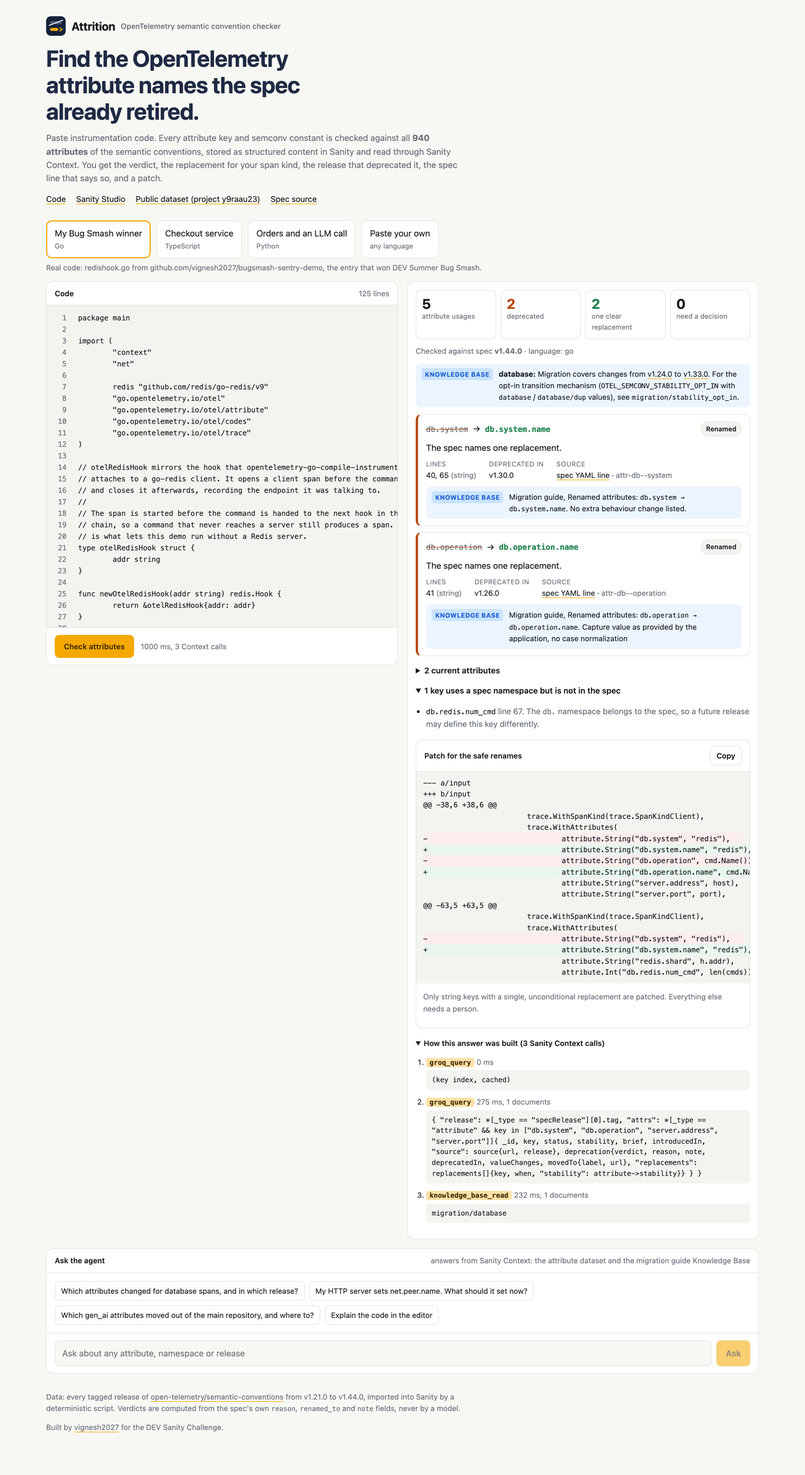
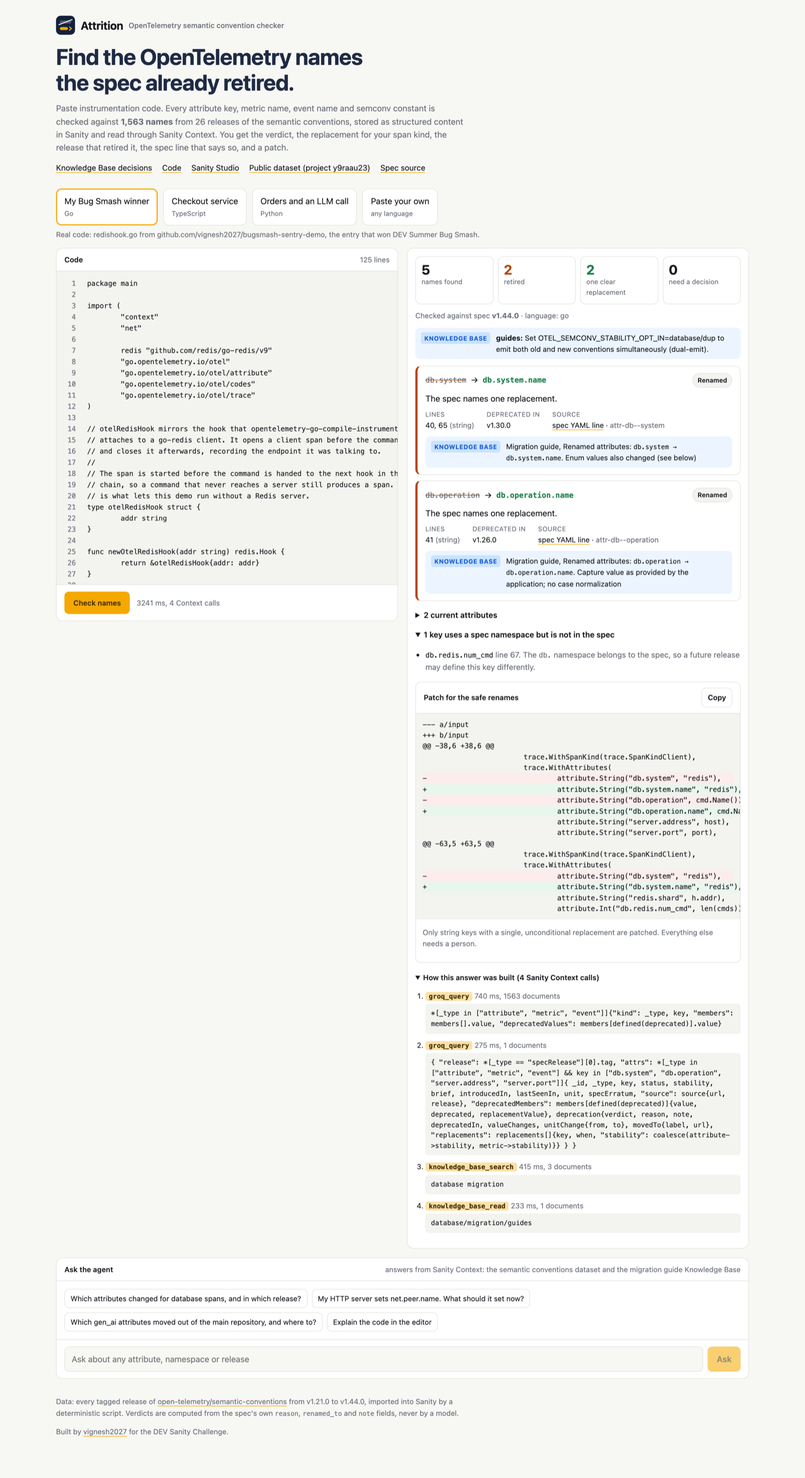
Refresh the README, project page, screenshots and demo GIF
Covers metrics, events, enum values and silently dropped names, the two
organization-level Context MCP endpoints, the Knowledge Base decisions
and the updated benchmark.

diff --git a/docs/index.html b/docs/index.html
@@ -3,10 +3,10 @@
 <head>
 <meta charset="utf-8">
 <meta name="viewport" content="width=device-width, initial-scale=1">
-<title>Attrition</title>
-<meta name="description" content="Find the OpenTelemetry attribute names the spec already retired. An agent on Sanity Context over all 940 semantic convention attributes.">
+<title>Attrition: find retired OpenTelemetry names</title>
+<meta name="description" content="Find the OpenTelemetry names the spec already retired. An agent on Sanity Context over 1,563 OpenTelemetry semantic convention names.">
 <meta property="og:title" content="Attrition">
-<meta property="og:description" content="Find the OpenTelemetry attribute names the spec already retired.">
+<meta property="og:description" content="Find the OpenTelemetry names the spec already retired.">
 <meta property="og:image" content="https://vignesh2027.github.io/attrition/og.png">
 <meta name="twitter:card" content="summary_large_image">
 <link rel="icon" href="mark.svg" type="image/svg+xml">
@@ -46,15 +46,16 @@ footer{margin-top:60px;color:var(--muted);font-size:14px}
 <body>
 <main class="wrap">
   <div class="brand"><img src="mark.svg" alt="" width="40" height="40" style="border-radius:9px">Attrition<span style="font-weight:500;text-transform:none;letter-spacing:0;color:var(--muted);font-size:14px;margin-left:6px">OpenTelemetry semantic convention checker</span></div>
-  <h1>Find the OpenTelemetry attribute names the spec already retired.</h1>
-  <p class="lede">Paste instrumentation code. Every attribute key and SDK constant is checked against all 940 attributes of the semantic conventions, stored as structured content in Sanity and read through Sanity Context. You get the verdict, the replacement for your span kind, the release that deprecated it, the spec line that says so, and a patch.</p>
+  <h1>Find the OpenTelemetry names the spec already retired.</h1>
+  <p class="lede">Paste instrumentation code. Every attribute key, metric name, event name, enum value and SDK constant is checked against 1,563 names from 26 releases of the semantic conventions, stored as structured content in Sanity and read through Sanity Context and a Knowledge Base. You get the verdict, the replacement for your span kind, the release that retired it, the spec line that says so, and a patch.</p>
   <div class="cta">
     <a class="btn primary" href="https://attrition-otel.vercel.app">Open the live app</a>
     <a class="btn" href="https://github.com/vignesh2027/attrition">Source on GitHub</a>
+    <a class="btn" href="https://attrition-otel.vercel.app/decisions">Knowledge Base decisions</a>
     <a class="btn" href="https://github.com/vignesh2027/attrition/blob/main/bench/RESULTS.md">Real repository results</a>
   </div>
 
-  <div class="shot"><img src="img/node-light.png" alt="Scan of a TypeScript checkout service: net.peer.name resolves to client.address on the server span and server.address on the client span" loading="lazy"></div>
+  <div class="shot"><img src="img/demo.gif" alt="Demo: scanning two samples, then the Knowledge Base decisions page"></div>
 
   <h2>What a keyword search gets wrong</h2>
   <div class="grid">
@@ -66,20 +67,20 @@ footer{margin-top:60px;color:var(--muted);font-size:14px}
 
   <h2>Built on Sanity Context</h2>
   <div class="grid">
-    <div class="card"><div class="num">1,031</div><p>documents in the public dataset <code>y9raau23/production</code>, imported from 26 spec releases by a deterministic script</p></div>
-    <div class="card"><div class="num">206</div><p>deprecated attributes, each with a verdict computed from the spec's own <code>reason</code>, <code>renamed_to</code> and <code>note</code></p></div>
-    <div class="card"><div class="num">107</div><p>sources in the Knowledge Base: a dataset slice, five official migration guides and two older spec pages</p></div>
-    <div class="card"><div class="num">3</div><p>Context tools used: <code>groq_query</code> for verdicts, <code>knowledge_base_read</code> for migration guidance, <code>schema_explorer</code> in chat</p></div>
+    <div class="card"><div class="num">1,654</div><p>documents in the public dataset <code>y9raau23/production</code>: 940 attributes, 571 metrics and 36 events from 26 spec releases</p></div>
+    <div class="card"><div class="num">50</div><p>names that left the spec with no deprecation entry, found by reading every older release. Only the migration guides record where they went.</p></div>
+    <div class="card"><div class="num">4</div><p>real conflicts between the registry and the guides, raised by the Knowledge Base build and resolved into standing instructions</p></div>
+    <div class="card"><div class="num">144</div><p>Knowledge Base sources, inside the 150 budget, read with <code>knowledge_base_search</code> and <code>knowledge_base_read</code></p></div>
   </div>
 
   <h2>Real repositories, pinned commits</h2>
   <div class="table">
   <table>
-    <thead><tr><th>Repository</th><th>Deprecated usages in code</th><th>Files to touch</th></tr></thead>
+    <thead><tr><th>Repository</th><th>Retired names in code</th><th>Files to touch</th></tr></thead>
     <tbody>
       <tr><td><a href="https://github.com/open-telemetry/opentelemetry-demo/tree/1fce20e">open-telemetry/opentelemetry-demo</a></td><td class="n">6</td><td class="n">4</td></tr>
       <tr><td><a href="https://github.com/jaegertracing/jaeger/tree/34a240c">jaegertracing/jaeger</a></td><td class="n">67</td><td class="n">13</td></tr>
-      <tr><td><a href="https://github.com/redis/go-redis/tree/d8ee0a5">redis/go-redis</a></td><td class="n">9</td><td class="n">4</td></tr>
+      <tr><td><a href="https://github.com/redis/go-redis/tree/d8ee0a5">redis/go-redis</a></td><td class="n">16</td><td class="n">4</td></tr>
       <tr><td><a href="https://github.com/go-gorm/opentelemetry/tree/8ccd419">go-gorm/opentelemetry</a></td><td class="n">0</td><td class="n">0</td></tr>
       <tr><td><a href="https://github.com/uptrace/opentelemetry-go-extra/tree/d0bd674">uptrace/opentelemetry-go-extra</a></td><td class="n">18</td><td class="n">7</td></tr>
     </tbody>
@@ -87,7 +88,8 @@ footer{margin-top:60px;color:var(--muted);font-size:14px}
   </div>
   <p style="color:var(--muted);font-size:14px">A finding means the key is deprecated in the spec. Fixtures that read old data, or libraries that dual-emit on purpose during a migration, may keep the old key for now. Every line is linked in the results file.</p>
 
-  <div class="shot"><img src="img/python-dark.png" alt="Scan of a Python service with Knowledge Base migration guidance on each finding" loading="lazy"></div>
+  <div class="shot"><img src="img/hero.png" alt="Scan of a TypeScript checkout service with dropped HTTP metrics answered from the Knowledge Base" loading="lazy"></div>
+  <div class="shot"><img src="img/decisions-light.png" alt="Knowledge Base conflicts with both claims and the chosen ground truth" loading="lazy"></div>
 
   <footer>
     <p>Data from <a href="https://github.com/open-telemetry/semantic-conventions">open-telemetry/semantic-conventions</a>, Apache License 2.0. Built by <a href="https://github.com/vignesh2027">vignesh2027</a> for the DEV Sanity Challenge.</p>

diff --git a/README.md b/README.md
@@ -1,31 +1,33 @@
 # Attrition
 
-**Find the OpenTelemetry attribute names the spec already retired.**
+**Find the OpenTelemetry names the spec already retired.**
 
-Paste instrumentation code. Attrition finds every attribute key and SDK constant in it, checks each one against all 940 attributes of the OpenTelemetry semantic conventions, and tells you what to use instead, for your span kind, with the release that deprecated it and the exact spec line that says so. It then writes a patch for the renames that are safe to automate and leaves the rest for a person.
+Paste instrumentation code. Attrition finds every attribute key, metric name, event name, enum value and SDK constant in it, checks each one against 1,563 names from 26 releases of the OpenTelemetry semantic conventions, and tells you what to use instead: for your span kind, with the release that retired it, the exact spec line that says so, and what the official migration guide adds. It writes a patch only for the renames that are safe to automate and leaves the rest for a person.
 
 | | |
 | --- | --- |
 | Live app | https://attrition-otel.vercel.app (no login) |
+| Knowledge Base decisions | https://attrition-otel.vercel.app/decisions |
 | Project page | https://vignesh2027.github.io/attrition |
 | Sanity project ID | `y9raau23`, dataset `production` (public) |
-| Public dataset query | [deprecated attributes as JSON](https://y9raau23.apicdn.sanity.io/v2025-02-19/data/query/production?query=*%5B_type%3D%3D%22attribute%22%26%26status%3D%3D%22deprecated%22%5D%7Bkey%2Cdeprecation%7D) |
+| Public dataset query | [every retired name as JSON](https://y9raau23.apicdn.sanity.io/v2025-02-19/data/query/production?query=*%5B_type%20in%20%5B%22attribute%22%2C%22metric%22%2C%22event%22%5D%20%26%26%20status%20!%3D%20%22current%22%5D%7B_type%2Ckey%2Cstatus%2Cdeprecation%7D) |
 | Sanity Studio | https://attrition.sanity.studio |
-| Context MCP (dataset) | `https://api.sanity.io/v2026-03-03/context/mcp/y9raau23/production/attrition` |
-| Context MCP (Knowledge Base) | `https://api.sanity.io/v1/context/organizations/oc2g3x7ee/mcp/attrition-kb` |
+| Context MCP, dataset | `https://api.sanity.io/v1/context/organizations/oc2g3x7ee/mcp/attrition` |
+| Context MCP, Knowledge Base | `https://api.sanity.io/v1/context/organizations/oc2g3x7ee/mcp/attrition-kb` |
 
-![Scan of a TypeScript checkout service](docs/img/node-light.png)
+![Attrition scanning a TypeScript checkout service](docs/img/hero.png)
+
+![Demo: two samples and the Knowledge Base decisions](docs/img/demo.gif)
 
 ## Why this needs structured content
 
-The semantic conventions rename attributes between releases. `http.method` became `http.request.method`, `db.system` became `db.system.name`, and in v1.42.0, 58 GenAI attributes (`gen_ai.*`, `mcp.*`, `openai.*`) moved to a separate repository. Old blog posts, SDK constants and copied snippets keep the retired names alive.
+The semantic conventions rename things between releases, and old blog posts, SDK constants and copied snippets keep the retired names alive. A text search over the docs cannot answer these correctly:
 
-A text search over the docs cannot answer these correctly:
-
-* **`net.peer.name` has two answers.** It is `server.address` on client spans and `client.address` on server spans. The agent reads the span kind from your code and picks one. If the code does not state a span kind, it asks.
-* **Some keys are split, merged or conditional.** `db.sql.table` becomes `db.collection.name` only if the value is not extracted from `db.query.text`. `code.function` is folded into a fully qualified `code.function.name`.
-* **Some are not renames at all.** `event.name` moves to the log record's EventName field. 21 attributes were removed with no replacement.
-* **The registry and the migration guide can disagree.** The registry says `db.name` was renamed to `db.namespace`. The database migration guide says it was removed and integrated into `db.namespace`. The app surfaces both and keeps that key out of the patch.
+* **One name, two answers.** `net.peer.name` is `server.address` on client spans and `client.address` on server spans. Attrition reads the span kind from your code. If the code does not state one, it asks.
+* **Names that vanished with no record.** `http.server.duration` was in v1.21.0 and is simply gone from the registry, with no deprecation entry. 50 names left this way. Only the migration guide records the replacement, `http.server.request.duration`, and that the unit changed from ms to s.
+* **A rename that changes the data.** `db.client.connections.wait_time` became `db.client.connection.wait_time`, and the unit went from ms to s. Renaming the key alone would record wrong values. Attrition compares the two metric documents and holds it out of the patch.
+* **Values, not just keys.** `cloud.platform = "azure_vm"` is a current key with a retired value; it is now `"azure.vm"`.
+* **Sources that disagree.** The registry says `db.name` was renamed to `db.namespace`; the database guide says it was removed and integrated. Attrition shows both and keeps that key for a person.
 
 Each of those facts is a field in a Sanity document, not a sentence in a page.
 
@@ -37,93 +39,78 @@ flowchart LR
     R["26 tagged releases<br/>v1.21.0 to v1.44.0"]
     G["Migration guides"]
   end
-  R -->|scripts/build-dataset.mjs<br/>deterministic| D[("Sanity dataset<br/>1,031 documents")]
-  D -->|dataset slice, 98 docs| KB[("Knowledge Base<br/>107 sources")]
+  R -->|scripts/build-dataset.mjs<br/>deterministic| D[("Sanity dataset<br/>1,654 documents")]
+  D -->|137 retired names| KB[("Knowledge Base<br/>144 sources")]
   G --> KB
-  D --> M1["Context MCP<br/>groq_query"]
-  KB --> M2["Context MCP<br/>knowledge_base_read"]
-  C["Your code"] --> X["Extractor<br/>keys, constants, span kind"]
+  D --> M1["Context MCP: attrition<br/>groq_query"]
+  KB --> M2["Context MCP: attrition-kb<br/>knowledge_base_search, knowledge_base_read"]
+  C["Your code"] --> X["Extractor<br/>names, constants, values, span kind"]
   X --> A["Scan API"]
   M1 --> A
   M2 --> A
   A --> U["Web app"]
-  A --> CLI["Go CLI"]
+  A --> CLI["Go CLI and GitHub Action"]
+  D -->|public snapshot| RS["Rust offline scanner"]
   M1 --> Chat["Chat agent"]
   M2 --> Chat
+  M1 --> Py["Python agent"]
+  M2 --> Py
 ```
 
-1. **Import.** `scripts/fetch-semconv.mjs` downloads every tagged release since v1.21.0. `scripts/build-dataset.mjs` builds one `attribute` document per key from the newest release, and uses the older releases to record `introducedIn` and `deprecatedIn`. It reads both YAML formats, including the `definition/2` format that v1.44.0 introduced for stable attributes.
-2. **Verdicts in code, not in a model.** Each deprecated attribute gets a verdict computed from the spec's own `reason`, `renamed_to` and `note` fields. Replacements are stored with the condition they apply under (`always`, `client spans`, `server spans`, `together`).
-3. **Scan.** The extractor finds string keys, SDK constants (Go `semconv.DBSystemKey`, JS `SEMATTRS_HTTP_METHOD` and `ATTR_*`, Java and Python `*Attributes.DB_SYSTEM`), enum constants like `semconv.DBSystemRedis`, the span kind in effect, and any pinned semconv version. It sends one GROQ query through the Context MCP `groq_query` tool, then reads the matching migration guide entries through `knowledge_base_read`.
-4. **Answer.** Every finding shows the verdict, the replacement for its span kind, when it was deprecated, whether your pinned version already had it deprecated, the migration guide row, and a link to the spec YAML line. The trace panel shows every Context call and its GROQ.
+1. **Import.** `scripts/fetch-semconv.mjs` downloads every tagged release since v1.21.0. `scripts/build-dataset.mjs` builds one document per attribute, metric and event from the newest release, and reads every older release for `introducedIn`, `deprecatedIn`, and names that disappeared with no deprecation entry (`DROPPED`, with `lastSeenIn`). It handles both YAML formats, including the `definition/2` format of v1.44.0.
+2. **Verdicts in code, not in a model.** Each retired name gets a verdict computed from the spec's own `reason`, `renamed_to` and `note` fields. Replacements carry the condition they apply under (`always`, `client spans`, `server spans`, `consumer spans`, `together`). A renamed metric whose replacement has a different unit gets `unitChange`, found by comparing the two documents.
+3. **Scan.** The extractor finds string keys, metric and event names (read by the call they sit in, since a few names are both), deprecated enum values next to their key, SDK constants in Go, TypeScript, Java and Python, the span kind in effect, and any pinned semconv version. One `groq_query` reads every verdict. Then `knowledge_base_search` finds the right migration guide entry for each retired name and `knowledge_base_read` reads it. No entry path is hard-coded, because Knowledge Base builds rename entries.
+4. **Answer.** Each finding shows the verdict, the replacement, the release, the unit change, the guide row and a link to the spec YAML line. The trace panel lists every Context call and its GROQ.
 
 ## Verdicts
 
-| Verdict | Count | Meaning |
-| --- | ---: | --- |
-| `RENAMED` | 97 | One new key, always |
-| `REPLACED` | 15 | One new key; the spec does not call it a rename |
-| `SPAN_KIND_DEPENDENT` | 3 | Different key per span kind, or none for one kind |
-| `SPLIT` | 4 | Several keys, set together |
-| `CONDITIONAL` | 2 | The note states a condition, or the key depends on usage |
-| `MERGED_INTO` | 4 | Fold the value into another key |
-| `USE_SIGNAL_FIELD` | 2 | Use a field of the span or log record |
-| `MOVED_OUT` | 58 | Maintained in another repository now |
-| `REMOVED` | 21 | Delete it |
+Across 940 attributes, 571 metrics and 36 events:
 
-Four replacements also change the value format (a type or a string representation), for example `rpc.grpc.status_code`. Those carry `valueChanges: true` and are never auto-patched.
+| Verdict | Attributes | Metrics | Events | Meaning |
+| --- | ---: | ---: | ---: | --- |
+| `RENAMED` | 97 | 71 | 1 | One new name, always |
+| `REPLACED` | 15 | 5 | 5 | One new name; the spec does not call it a rename |
+| `SPAN_KIND_DEPENDENT` | 3 | | | Different key per span kind |
+| `SPLIT` | 4 | | | Several keys, set together |
+| `CONDITIONAL` | 2 | | | The note states a condition |
+| `MERGED_INTO` | 4 | | | Fold the value into another key |
+| `USE_SIGNAL_FIELD` | 2 | | | Use a field of the span or log record |
+| `MOVED_OUT` | 58 | 11 | 3 | Maintained in another repository now |
+| `REMOVED` | 21 | 10 | 1 | Delete it |
+| `DROPPED` | 16 | 30 | 4 | Left the spec with no deprecation entry |
 
-No attribute is left as `NEEDS_REVIEW`. The counts come from `data/summary.json`.
+24 enum values are deprecated on their own, for example `cloud.platform = "azure_vm"`. No name is left as `NEEDS_REVIEW`. The importer also found a copy-paste erratum in the upstream spec: two deprecated `system.linux.memory.*` entries carry the brief and unit of a network packet counter. It is recorded as `specErratum` instead of being reported as a unit change.
+
+## The Knowledge Base, and the decisions it raised
+
+Knowledge Base `kbI5ncVyqDpc` was built entirely from the Sanity CLI from 144 sources, inside the 150 document beta budget: 137 retired attributes and metrics bound from the dataset, five official migration guides, and two older spec pages that still use the retired names.
+
+Its build raised four real conflicts. The dataset says `http.server.duration` and `http.resend_count` left the registry with no replacement; the guides say they were renamed. Both are true at different levels, and the guide is the ground truth for what to use. Each conflict was resolved by a person, which turned it into a standing instruction for every later build, and the entries were rewritten to match. [See them side by side](https://attrition-otel.vercel.app/decisions), or read [kb/DECISIONS.md](kb/DECISIONS.md).
+
+![Knowledge Base decisions](docs/img/decisions-light.png)
 
 ## Real repositories
 
-The Go CLI scanned five open-source repositories at pinned commits. Full results with a link to every line are in [bench/RESULTS.md](bench/RESULTS.md).
+The Go CLI scanned five open-source repositories at pinned commits, and the Rust offline scanner matched every count. Full results with a link to every line: [bench/RESULTS.md](bench/RESULTS.md).
 
-| Repository | Deprecated usages in code | Files to touch |
+| Repository | Retired names in code | Files to touch |
 | --- | ---: | ---: |
 | open-telemetry/opentelemetry-demo | 6 | 4 |
 | jaegertracing/jaeger | 67 | 13 |
-| redis/go-redis | 9 | 4 |
+| redis/go-redis | 16 | 4 |
 | go-gorm/opentelemetry | 0 | 0 |
 | uptrace/opentelemetry-go-extra | 18 | 7 |
 
-A finding means the key is deprecated in the spec. Test fixtures that read old data, or libraries that dual-emit on purpose during a migration, may keep the old key for now.
-
-## Sanity content model
-
-| Type | Holds |
-| --- | --- |
-| `attribute` | `key`, `status`, `stability`, `type`, `brief`, `note`, `examples`, enum `members`, `introducedIn`, `deprecation`, `source` |
-| `deprecation` (object) | `verdict`, `reason`, `note`, `deprecatedIn`, `replacements[]`, `movedTo` |
-| `replacement` (object) | `key`, `when`, weak reference to the replacement `attribute` |
-| `sourceRef` (object) | `release`, `file`, `line`, `url` to the exact YAML line |
-| `namespace` | `name`, `attributeCount` |
-| `specRelease` | `tag` and per-release attribute and deprecation counts |
-| `sanity.agentContext` | The Agent Context document: slug, GROQ filter and instructions for the MCP endpoint |
-
-## Repository layout
-
-| Path | What it is |
-| --- | --- |
-| `scripts/` | Fetch the spec releases and build `data/semconv.ndjson` |
-| `studio/` | Sanity Studio, schema, structure, Agent Context document |
-| `kb/` | Knowledge Base sources and the script that rebuilds it |
-| `web/` | Next.js and TypeScript: scan API, chat agent, UI |
-| `cli/` | Go CLI for local trees and CI, also used by the GitHub Action |
-| `rust/` | Rust offline scanner for pre-commit hooks and air-gapped CI |
-| `python/` | Python terminal agent on the same Context MCP endpoints |
-| `action.yml` | GitHub Action |
-| `bench/` | Real repository scan and results |
-| `docs/` | GitHub Pages site and screenshots |
+go-redis's `redisotel` package registers the old `db.client.connections.*` pool metrics and records `create_time` and `use_time` in milliseconds, so a plain rename to the new names would report values a thousand times too large. A finding means the name is retired in the spec; test fixtures that read old data, or libraries that dual-emit on purpose, may keep it for now.
 
 ## Four ways to run it
 
 | | Language | Needs network | Best for |
 | --- | --- | --- | --- |
-| [Web app](https://attrition-otel.vercel.app) | TypeScript | yes | Pasting a file, reading the evidence |
-| [`cli/`](cli) | Go | yes (live Sanity Context) | CI and whole repositories, `-fix` |
-| [`rust/`](rust) | Rust | only once, for the snapshot | Pre-commit hooks, air-gapped CI |
-| [`python/`](python) | Python | yes | Asking questions from a terminal, other agent stacks |
+| [Web app](https://attrition-otel.vercel.app) | TypeScript, Next.js | yes | Pasting a file, reading the evidence, asking the agent |
+| [`cli/`](cli) | Go | yes, live Sanity Context | Whole repositories and CI, `-fix` for safe renames |
+| [`rust/`](rust) | Rust | once, for the snapshot | Pre-commit hooks and air-gapped CI |
+| [`python/`](python) | Python | yes | A terminal agent on the same MCP endpoints |
 
 ### GitHub Action
 
@@ -137,15 +124,49 @@ A finding means the key is deprecated in the spec. Test fixtures that read old d
 
 It writes the report to the job summary and fails the job when code uses a retired name.
 
-## Use the CLI
+### CLI
 
 ```sh
 cd cli && go build -o attrition .
-./attrition ~/code/my-service              # report
-./attrition -fail ~/code/my-service        # exit 1 on any deprecated usage (CI)
-./attrition -fix ~/code/my-service         # apply only the unambiguous string renames
-./attrition -json ~/code/my-service        # machine-readable
+./attrition ~/code/my-service           # report
+./attrition -fail ~/code/my-service     # exit 1 on any retired name in code (CI)
+./attrition -fix ~/code/my-service      # apply only the unambiguous string renames
+./attrition -json ~/code/my-service     # machine-readable
 ```
+
+## Sanity content model
+
+| Type | Holds |
+| --- | --- |
+| `attribute` | `key`, `status` (current, deprecated, dropped), `stability`, `type`, `brief`, `note`, `examples`, enum `members` with `deprecated` and `replacementValue`, `introducedIn`, `lastSeenIn`, `deprecation`, `source` |
+| `metric` | `key`, `instrument`, `unit`, `status`, `stability`, `introducedIn`, `lastSeenIn`, `specErratum`, `deprecation`, `source` |
+| `event` | `key`, `status`, `stability`, `introducedIn`, `lastSeenIn`, `deprecation`, `source` |
+| `deprecation` (object) | `verdict`, `reason`, `note`, `deprecatedIn`, `replacements[]`, `valueChanges`, `unitChange`, `movedTo` |
+| `replacement` (object) | `key`, `when`, weak references to the replacement attribute or metric |
+| `sourceRef` (object) | `release`, `file`, `line`, `url` to the exact YAML line |
+| `namespace`, `specRelease` | Namespace counts, and per-release attribute, metric and event counts |
+
+The Studio groups retired names by verdict and adds views for silently dropped names, metrics with a unit change, and spec errata.
+
+| | |
+| --- | --- |
+| ![net.peer.name in the Studio](docs/img/studio-span-kind.png) | ![A metric with a unit change](docs/img/studio-unit-change.png) |
+| ![A silently dropped metric](docs/img/studio-dropped-metric.png) | ![A spec erratum](docs/img/studio-erratum.png) |
+
+## Repository layout
+
+| Path | What it is |
+| --- | --- |
+| `scripts/` | Fetch the spec releases and build `data/semconv.ndjson` |
+| `studio/` | Sanity Studio, schema, structure, and `mcp-endpoints.mjs` for both Context MCP endpoints |
+| `kb/` | Knowledge Base sources, rebuild script and decision log |
+| `web/` | Next.js: scan API, chat agent, Decisions page, UI |
+| `cli/` | Go CLI, also used by the GitHub Action |
+| `rust/` | Rust offline scanner |
+| `python/` | Python terminal agent |
+| `bench/` | Real repository scan, results and Rust parity check |
+| `docs/` | GitHub Pages site and screenshots |
+| `tools/shots/` | Scripts that take the screenshots and the demo GIF |
 
 ## Run it yourself
 
@@ -153,21 +174,25 @@ cd cli && go build -o attrition .
 npm install && npm run fetch && npm run build-data   # data/semconv.ndjson
 cd studio && npm install && npx sanity login
 npx sanity dataset import ../data/semconv.ndjson production --replace
-npx sanity schema deploy && node agent-context.mjs
+npx sanity schema deploy && node mcp-endpoints.mjs
 cd ../web && npm install && npm run dev
 ```
 
-`web/.env.local` needs `SANITY_API_READ_TOKEN` (project viewer). The Knowledge Base enrichment also needs `SANITY_KB_MCP_URL`, `SANITY_KB_ID` and `SANITY_ORGANIZATION_TOKEN` (organization, Context Viewer). The chat agent needs `GROQ_API_KEY`. Scanning works without it.
+`web/.env.local` needs `SANITY_ORGANIZATION_TOKEN` (organization token with Context Viewer), `SANITY_KB_MCP_URL` and `SANITY_KB_ID` for the Knowledge Base, and `GROQ_API_KEY` for the chat agent. Scanning works without the chat key.
 
 ## Tests
 
 ```sh
-cd web && npm test          # extractor and patch tests
+cd web && npm test           # extractor and patch tests
+cd rust && cargo test        # Rust extractor tests
 cd cli && go vet ./...
+WORK=/tmp/attrition-bench bench/run.sh && WORK=/tmp/attrition-bench bench/parity.sh
 ```
+
+CI runs the web, Go and Rust checks and runs the Action on the repository's own samples.
 
 ## Credits
 
-Attribute data and the files in `kb/sources/` come from [open-telemetry/semantic-conventions](https://github.com/open-telemetry/semantic-conventions) and [open-telemetry/opentelemetry-specification](https://github.com/open-telemetry/opentelemetry-specification), Apache License 2.0. The Go sample is `redishook.go` from my [Bug Smash entry](https://github.com/vignesh2027/bugsmash-sentry-demo).
+Spec data and the files in `kb/sources/` come from [open-telemetry/semantic-conventions](https://github.com/open-telemetry/semantic-conventions) and [open-telemetry/opentelemetry-specification](https://github.com/open-telemetry/opentelemetry-specification), Apache License 2.0. The Go sample is `redishook.go` from my [Bug Smash entry](https://github.com/vignesh2027/bugsmash-sentry-demo).
 
 Built by [vignesh2027](https://github.com/vignesh2027) for the DEV Sanity Challenge. MIT License.
